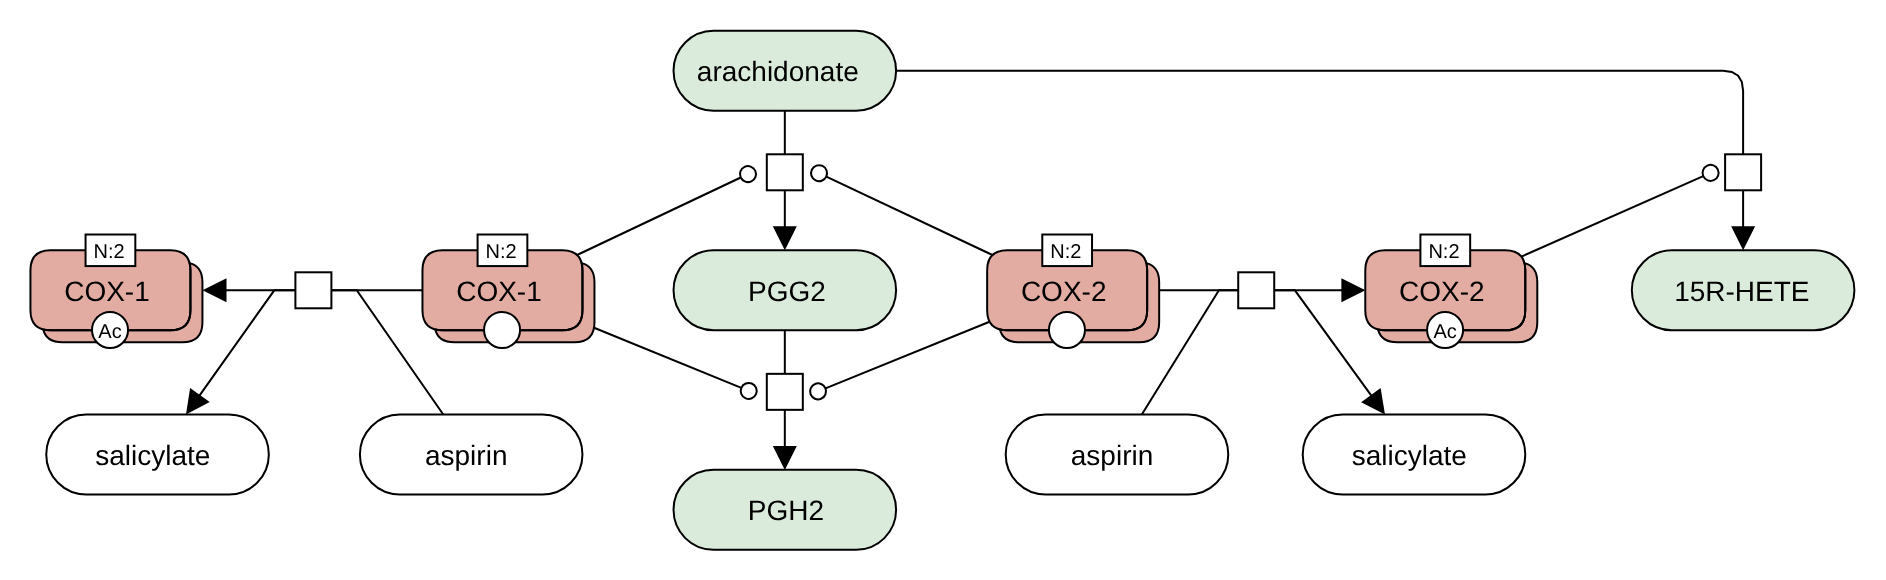
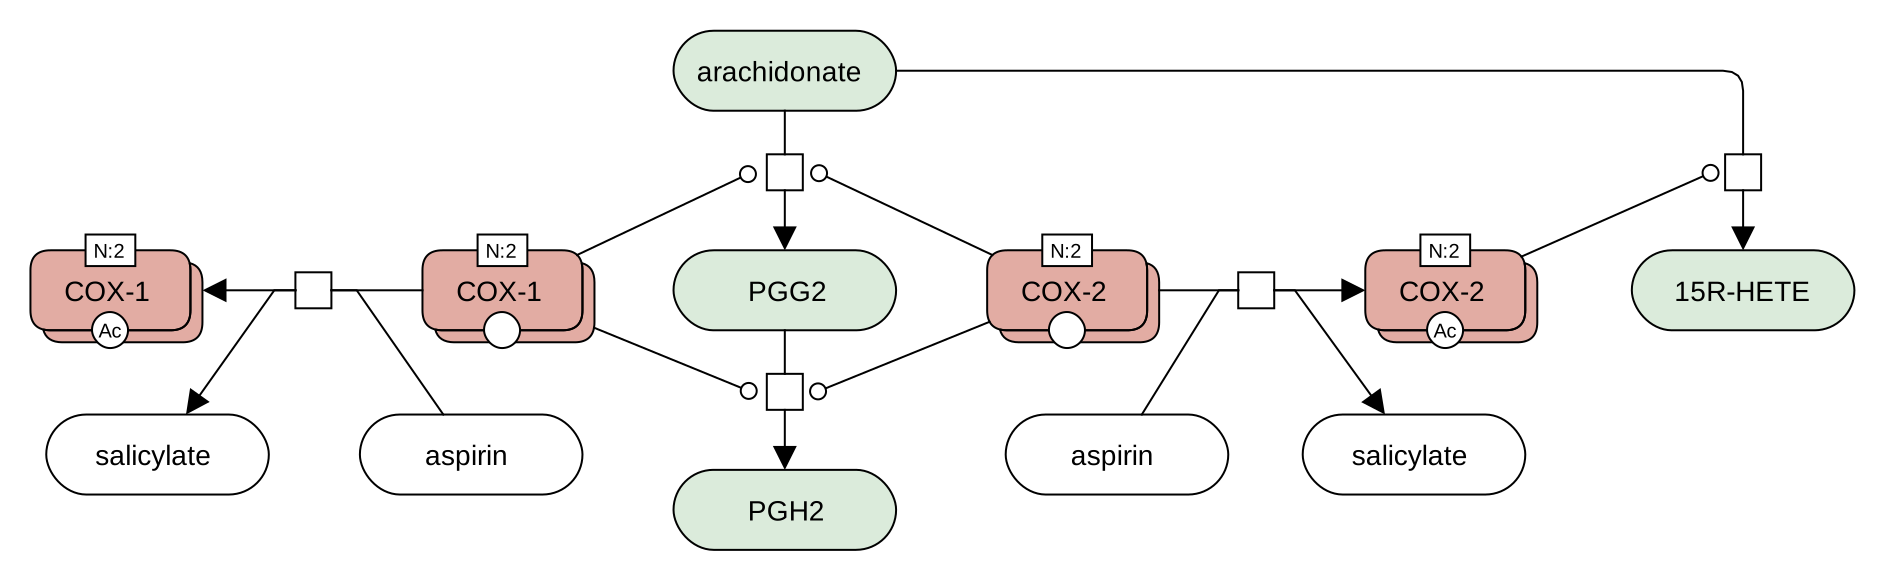
PNG from the SVG by scripts/make_png.py (cairosvg 2x, Liberation Sans for yEd's Dialog, geometricPrecision dropped); aspirin's PNG redone; File pipeline: PNG rule and the record of how official files are made (maps-workbench)
Claude-Session: https://claude.ai/code/session_01A5xEMBUxG5otrtXsbJ2A59

diff --git a/scripts/make_png.py b/scripts/make_png.py
@@ -1,0 +1,27 @@
+# The PNG of a map from its SVG (user, 2026-10-18, File pipeline in CLAUDE.md): cairosvg at 2x,
+# white background, the same renderer as the Atlas images (scripts/yrender/). yEd's SVG names
+# its font Dialog or sans-serif, which each system resolves to another font, so both are drawn in
+# Liberation Sans (Arial's metrics, as yEd's Dialog) and the PNG is the same everywhere. yEd's
+# text-rendering="geometricPrecision" is dropped: cairosvg draws the letters on top of each other.
+# Needs: cairosvg, fonts-liberation.
+#   python3 scripts/make_png.py <map.svg> [<map.png>]
+import re, sys
+import cairosvg
+
+
+def font(m):
+    fam = m.group(1)
+    return 'font-family="%s"' % ('Liberation Sans, ' + fam if 'Dialog' in fam or fam.strip() == 'sans-serif' else fam)
+
+
+def make_png(svg_path, png_path):
+    svg = open(svg_path, encoding='utf-8').read()
+    head = re.search(r'<svg\b[^>]*>', svg).group(0)
+    w, h = (float(re.search(r'\s%s="([\d.]+)' % a, head).group(1)) for a in ('width', 'height'))
+    svg = re.sub(r'font-family="([^"]*)"', font, svg.replace(' text-rendering="geometricPrecision"', ''))
+    cairosvg.svg2png(bytestring=svg.encode('utf-8'), output_width=round(2 * w), output_height=round(2 * h),
+                     background_color='white', write_to=png_path)
+
+
+if __name__ == '__main__':
+    make_png(sys.argv[1], sys.argv[2] if len(sys.argv) > 2 else sys.argv[1][:-4] + '.png')

diff --git a/CLAUDE.md b/CLAUDE.md
@@ -81,7 +81,7 @@ Official site (`downloads/`), when a map is published:
 |---|---|
 | GraphML | the user's final yEd file, or the Atlas GraphML the user approved |
 | SVG | the user's yEd export, 1:1 |
-| PNG | the user's yEd export; until there is one, rendered at 2x from the SVG (Chromium) |
+| PNG | rendered from the SVG at 2x: `python3 scripts/make_png.py <map.svg>` (cairosvg, Liberation Sans for yEd's Dialog, the renderer of the Atlas images), not a separate yEd PNG export (user, 2026-10-18) |
 | CellDesigner | map-converter, advanced layout: `python3 -m mapconv <map.graphml> <map.xml> --layout advanced` (repository `metabolismregulation/map-converter`), then `python3 -m mapconv.check <map.graphml> <map.xml>`: the same entities and reactions on both sides |
 | SBML, SBGN-ML | MINERVA's conversion service from that CellDesigner file (maps-workbench `tools/minerva_exports.py <folder> <base>`), not our converter yet |
 | Annotation CSV | `python3 scripts/make_maps.py --official-csv <base> "<pathway>"` |
@@ -99,8 +99,11 @@ Atlas (`atlas-downloads/`):
 | SBML | none: our converter writes no SBML (user, 2026-10-18). An official copy keeps its SBML |
 | Annotation CSV | rebuilt from the GraphML by `make_maps.py` on every run |
 
-A draft carries only GraphML and SVG (Draft maps). Every published map's workbench README records the
-map-converter commit and the MINERVA version that made its files. `make_maps.py` warns when an
+A draft carries only GraphML and SVG (Draft maps). Nothing about how a file was made goes into the
+map files themselves (user, 2026-10-18). The record is in maps-workbench `notes/published-files.csv`,
+one row per file in `downloads/` (file, sha1, made by, date), written at publishing by
+`tools/published_files.py record`; `tools/published_files.py check` (by hand) reports a file in
+`downloads/` without a row or changed since its row. `make_maps.py` warns when an
 official page lacks a file of the set. MINERVA is outside our control: 22.0.1 (2026-10-18) fails
 on a complex with a homodimer (N:2 on a complex, the EGF:EGFR dimer in phosphoinositides),
 "UnitOfInformation cannot be cast to StructuralState", even for a CellDesigner to CellDesigner
